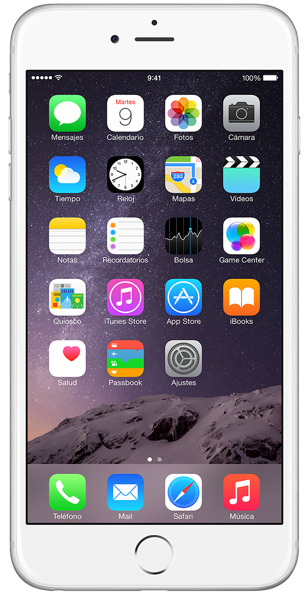
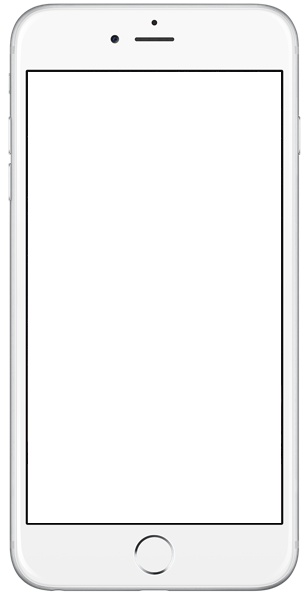
agregado el mockup del iphone para single de iphone

diff --git a/public/css/app.css b/public/css/app.css
@@ -1,2 +1,2 @@
-@import url(https://fonts.googleapis.com/css?family=Raleway:100,300,400,600);*{box-sizing:border-box}html{padding-top:50px}body{font-family:"Raleway", 'Helvetica', 'Lucida Grande', 'Lucida', sans}h1,h2{color:#17bc99}#admin{position:absolute;top:10px;right:10px}a{color:#7f7c8c}a:hover{color:#ecb593;text-decoration:none}.btn-success{background-color:#17bc99;border:1px solid rgba(0,0,0,0.2)}.btn-success:hover{background-color:#14a587}p{color:#565656;line-height:1.7em}dt{color:#565656;font-weight:100;font-weight:.9em}#header{margin-bottom:50px}#logo{fill:none;stroke:#ecb593;stroke-width:2}h1.display-1{font-size:7em;font-weight:100 !important;border-bottom:1px solid #cecece;padding-bottom:20px;margin-bottom:20px}#menu{margin-top:30px;padding:0;list-style-type:none;font-size:1.3em}#menu li{display:inline-block}#menu li a{color:#bdc3c7}section{position:relative;padding:40px;height:100%}section .titulo{font-size:6em;font-weight:100 !important;color:rgba(255,255,255,0.5);width:20%;padding:0 !important;position:absolute;top:50%;height:140px;margin-top:-70px}section.apps{background:url("../img/section_app_bg.jpg");background-position:center center;background-size:cover;-webkit-box-shadow:inset 0px 0px 64px 13px rgba(0,0,0,0.44);-moz-box-shadow:inset 0px 0px 64px 13px rgba(0,0,0,0.44);box-shadow:inset 0px 0px 64px 13px rgba(0,0,0,0.44)}section.apps .app{transition:.1s;margin-bottom:20px;text-align:center}section.apps .app:hover{transform:scale(1.05);opacity:.9}section.apps .app a{color:#fff}section.apps .app h4,section.apps .app h1{color:#fff;margin-top:20px;font-weight:bold;text-shadow:0px 1px 2px rgba(0,0,0,0.4)}section.apps .app figure{margin:auto;background-position:center;background-size:cover;border-radius:20px;width:160px;height:160px;overflow:hidden;box-shadow:0px 5px 10px -3px rgba(0,0,0,0.4)}section.anims{background:#ecf0f1;background:-moz-linear-gradient(top, #ecf0f1 0%, #ecf0f1 81%, #d4d7da 100%);background:-webkit-gradient(left top, left bottom, color-stop(0%, #ecf0f1), color-stop(81%, #ecf0f1), color-stop(100%, #d4d7da));background:-webkit-linear-gradient(top, #ecf0f1 0%, #ecf0f1 81%, #d4d7da 100%);background:-o-linear-gradient(top, #ecf0f1 0%, #ecf0f1 81%, #d4d7da 100%);background:-ms-linear-gradient(top, #ecf0f1 0%, #ecf0f1 81%, #d4d7da 100%);background:linear-gradient(to bottom, #ecf0f1 0%, #ecf0f1 81%, #d4d7da 100%);filter:progid:DXImageTransform.Microsoft.gradient( startColorstr='#ecf0f1', endColorstr='#d4d7da', GradientType=0 )}section.anims .titulo{color:rgba(236,181,147,0.8)}section.anims .anim{margin-bottom:20px;transition:.1s}section.anims .anim:hover{transform:perspective(800px) rotateY(5deg);opacity:.9}section.anims .anim figure{position:relative;background-position:center;background-size:cover;height:130px;border-radius:4px;overflow:hidden;box-shadow:0px 0px 6px rgba(0,0,0,0.4) inset}.filmstrip{height:100%;opacity:.6;display:block;margin:auto;background:url("../img/filmstrip.png");background-size:100% 100%}.single_anims section p,.single_anims section dd,.single_anims section dt,.single_anims section h1{color:#fff;text-shadow:0px 1px 2px rgba(0,0,0,0.4)}section.diseños{background:#fff;background:-moz-linear-gradient(top, #fff 0%, #fff 81%, #ecf0f1 100%);background:-webkit-gradient(left top, left bottom, color-stop(0%, #fff), color-stop(81%, #fff), color-stop(100%, #ecf0f1));background:-webkit-linear-gradient(top, #fff 0%, #fff 81%, #ecf0f1 100%);background:-o-linear-gradient(top, #fff 0%, #fff 81%, #ecf0f1 100%);background:-ms-linear-gradient(top, #fff 0%, #fff 81%, #ecf0f1 100%);background:linear-gradient(to bottom, #fff 0%, #fff 81%, #ecf0f1 100%);filter:progid:DXImageTransform.Microsoft.gradient( startColorstr='#ffffff', endColorstr='#ecf0f1', GradientType=0 )}section.diseños .titulo{color:rgba(0,0,0,0.1)}section.diseños .diseño{transition:.1s;transform:perspective(800px) rotateX(10deg);min-height:295px;margin-bottom:20px;text-align:center}section.diseños .diseño:hover{transform:perspective(800px) rotateX(15deg);opacity:.9}section.diseños .diseño figure{background-position:center;background-size:cover;background-repeat:no-repeat;height:235px;border-radius:5px;border:1px solid rgba(0,0,0,0.1);overflow:hidden;box-shadow:0px 5px 10px -5px rgba(0,0,0,0.4)}section.diseños .diseño h5{font-weight:bold}section.diseños .diseño h5:first-letter{text-transform:capitalize}.single-dis-cover{transform:perspective(800px) rotateX(10deg);background-position:center;background-size:cover;background-repeat:no-repeat;height:400px;border-radius:5px;border:1px solid rgba(0,0,0,0.1);overflow:hidden;box-shadow:0px 5px 14px -5px rgba(0,0,0,0.6)}section.pie{background-color:#ecf0f1}@keyframes fadeOutIcons{0%{opacity:0}100%{opacity:1}}@keyframes resizeBg{100%{height:449px}0%{height:265px}}#main.is-exiting section.apps{animation-direction:alternate-reverse}#main.is-exiting .app{animation-direction:alternate-reverse}
+@import url(https://fonts.googleapis.com/css?family=Raleway:100,300,400,600);*{box-sizing:border-box}html{padding-top:50px}body{font-family:"Raleway", 'Helvetica', 'Lucida Grande', 'Lucida', sans}h1,h2{color:#17bc99}#admin{position:absolute;top:10px;right:10px}a{color:#7f7c8c}a:hover{color:#ecb593;text-decoration:none}.btn-success{background-color:#17bc99;border:1px solid rgba(0,0,0,0.2)}.btn-success:hover{background-color:#14a587}p{color:#565656;line-height:1.7em}dt{color:#565656;font-weight:100;font-weight:.9em}#header{margin-bottom:50px}#logo{fill:none;stroke:#ecb593;stroke-width:2}h1.display-1{font-size:7em;font-weight:100 !important;border-bottom:1px solid #cecece;padding-bottom:20px;margin-bottom:20px}#menu{margin-top:30px;padding:0;list-style-type:none;font-size:1.3em}#menu li{display:inline-block}#menu li a{color:#bdc3c7}section{position:relative;padding:40px;height:100%}section .titulo{font-size:6em;font-weight:100 !important;color:rgba(255,255,255,0.5);width:20%;padding:0 !important;position:absolute;top:50%;height:140px;margin-top:-70px}.app_icon{width:150px;height:150px;position:absolute;background-position:center;background-size:cover;top:210px;left:0;right:0;margin:auto;border-radius:20px;box-shadow:0px 5px 10px -3px rgba(0,0,0,0.4)}.app_bg{width:260px;height:460px;background-position:center;background-size:cover;position:absolute;top:70px;left:0;right:0;margin:auto}.app_fg{position:absolute;top:0;left:0;right:0;margin:auto;z-index:99}section.apps{background:url("../img/section_app_bg.jpg");background-position:center center;background-size:cover;-webkit-box-shadow:inset 0px 0px 64px 13px rgba(0,0,0,0.44);-moz-box-shadow:inset 0px 0px 64px 13px rgba(0,0,0,0.44);box-shadow:inset 0px 0px 64px 13px rgba(0,0,0,0.44)}section.apps .app{transition:.1s;margin-bottom:20px;text-align:center}section.apps .app:hover{transform:scale(1.05);opacity:.9}section.apps .app a{color:#fff}section.apps .app h4,section.apps .app h1{color:#fff;margin-top:20px;font-weight:bold;text-shadow:0px 1px 2px rgba(0,0,0,0.4)}section.apps .app figure{margin:auto;background-position:center;background-size:cover;border-radius:20px;width:160px;height:160px;overflow:hidden;box-shadow:0px 5px 10px -3px rgba(0,0,0,0.4)}section.anims{background:#ecf0f1;background:-moz-linear-gradient(top, #ecf0f1 0%, #ecf0f1 81%, #d4d7da 100%);background:-webkit-gradient(left top, left bottom, color-stop(0%, #ecf0f1), color-stop(81%, #ecf0f1), color-stop(100%, #d4d7da));background:-webkit-linear-gradient(top, #ecf0f1 0%, #ecf0f1 81%, #d4d7da 100%);background:-o-linear-gradient(top, #ecf0f1 0%, #ecf0f1 81%, #d4d7da 100%);background:-ms-linear-gradient(top, #ecf0f1 0%, #ecf0f1 81%, #d4d7da 100%);background:linear-gradient(to bottom, #ecf0f1 0%, #ecf0f1 81%, #d4d7da 100%);filter:progid:DXImageTransform.Microsoft.gradient( startColorstr='#ecf0f1', endColorstr='#d4d7da', GradientType=0 )}section.anims .titulo{color:rgba(236,181,147,0.8)}section.anims .anim{margin-bottom:20px;transition:.1s}section.anims .anim:hover{transform:perspective(800px) rotateY(5deg);opacity:.9}section.anims .anim figure{position:relative;background-position:center;background-size:cover;height:130px;border-radius:4px;overflow:hidden;box-shadow:0px 0px 6px rgba(0,0,0,0.4) inset}.filmstrip{height:100%;opacity:.6;display:block;margin:auto;background:url("../img/filmstrip.png");background-size:100% 100%}.single_anims section p,.single_anims section dd,.single_anims section dt,.single_anims section h1{color:#fff;text-shadow:0px 1px 2px rgba(0,0,0,0.4)}section.diseños{background:#fff;background:-moz-linear-gradient(top, #fff 0%, #fff 81%, #ecf0f1 100%);background:-webkit-gradient(left top, left bottom, color-stop(0%, #fff), color-stop(81%, #fff), color-stop(100%, #ecf0f1));background:-webkit-linear-gradient(top, #fff 0%, #fff 81%, #ecf0f1 100%);background:-o-linear-gradient(top, #fff 0%, #fff 81%, #ecf0f1 100%);background:-ms-linear-gradient(top, #fff 0%, #fff 81%, #ecf0f1 100%);background:linear-gradient(to bottom, #fff 0%, #fff 81%, #ecf0f1 100%);filter:progid:DXImageTransform.Microsoft.gradient( startColorstr='#ffffff', endColorstr='#ecf0f1', GradientType=0 )}section.diseños .titulo{color:rgba(0,0,0,0.1)}section.diseños .diseño{transition:.1s;transform:perspective(800px) rotateX(10deg);min-height:295px;margin-bottom:20px;text-align:center}section.diseños .diseño:hover{transform:perspective(800px) rotateX(15deg);opacity:.9}section.diseños .diseño figure{background-position:center;background-size:cover;background-repeat:no-repeat;height:235px;border-radius:5px;border:1px solid rgba(0,0,0,0.1);overflow:hidden;box-shadow:0px 5px 10px -5px rgba(0,0,0,0.4)}section.diseños .diseño h5{font-weight:bold}section.diseños .diseño h5:first-letter{text-transform:capitalize}.single-dis-cover{transform:perspective(800px) rotateX(10deg);background-position:center;background-size:cover;background-repeat:no-repeat;height:400px;border-radius:5px;border:1px solid rgba(0,0,0,0.1);overflow:hidden;box-shadow:0px 5px 14px -5px rgba(0,0,0,0.6)}section.pie{background-color:#ecf0f1}@keyframes fadeOutIcons{0%{opacity:0}100%{opacity:1}}@keyframes resizeBg{100%{height:449px}0%{height:265px}}#main.is-exiting section.apps{animation-direction:alternate-reverse}#main.is-exiting .app{animation-direction:alternate-reverse}
 /*# sourceMappingURL=app.css.map */

diff --git a/public/css/app.scss b/public/css/app.scss
@@ -129,6 +129,35 @@ section {
 .market_buttons {
 
 }
+.app_icon {
+	width: 150px;
+	height: 150px;
+	position: absolute;
+	background-position: center;
+	background-size: cover;
+	top:210px;
+	left: 0;	right: 0;
+	margin: auto;
+	border-radius: 20px;
+box-shadow: 0px 5px 10px  -3px rgba(0,0,0,.4);
+}
+.app_bg {
+	width: 260px;
+	height: 460px;
+	background-position: center;
+	background-size: cover;
+	position: absolute;
+	top:70px;
+	left: 0;	right: 0;
+	margin: auto;
+}
+.app_fg {
+	position: absolute;
+	top:0;
+	left: 0;	right: 0;
+	margin: auto;
+	z-index: 99;
+}
 section.apps {
 	background: url('../img/section_app_bg.jpg') ;
 	background-position: center center;

diff --git a/resources/views/apps/show.blade.php b/resources/views/apps/show.blade.php
@@ -24,8 +24,10 @@
 
 	<section class="anims">
 		<div class="container">
-			<div class="col-xs-12 col-sm-6 col-md-6 col-lg-4 ">
-				<img src="{{ asset('img/devices/iphone.png') }}" class="img-responsive" style="margin:auto;">
+			<div class="col-xs-12 col-sm-6 col-md-6 col-lg-4 " style="position: relative;">
+				<div class="app_bg" style="background-image: url({{ url('uploads/works').'/blur_'.$app->img_square}})"></div>
+				<figure class="app_icon" style="background-image: url({{ url('uploads/works').'/'.$app->img_square}}); " > </figure>
+				<img class="app_fg" src="{{ asset('img/devices/iphone.png') }}" >
 			</div>
 			<div class="col-xs-12 col-sm-6 col-md-6 col-lg-4 ">
 				<p class="lead" style="color: {{ $app->color}};">
